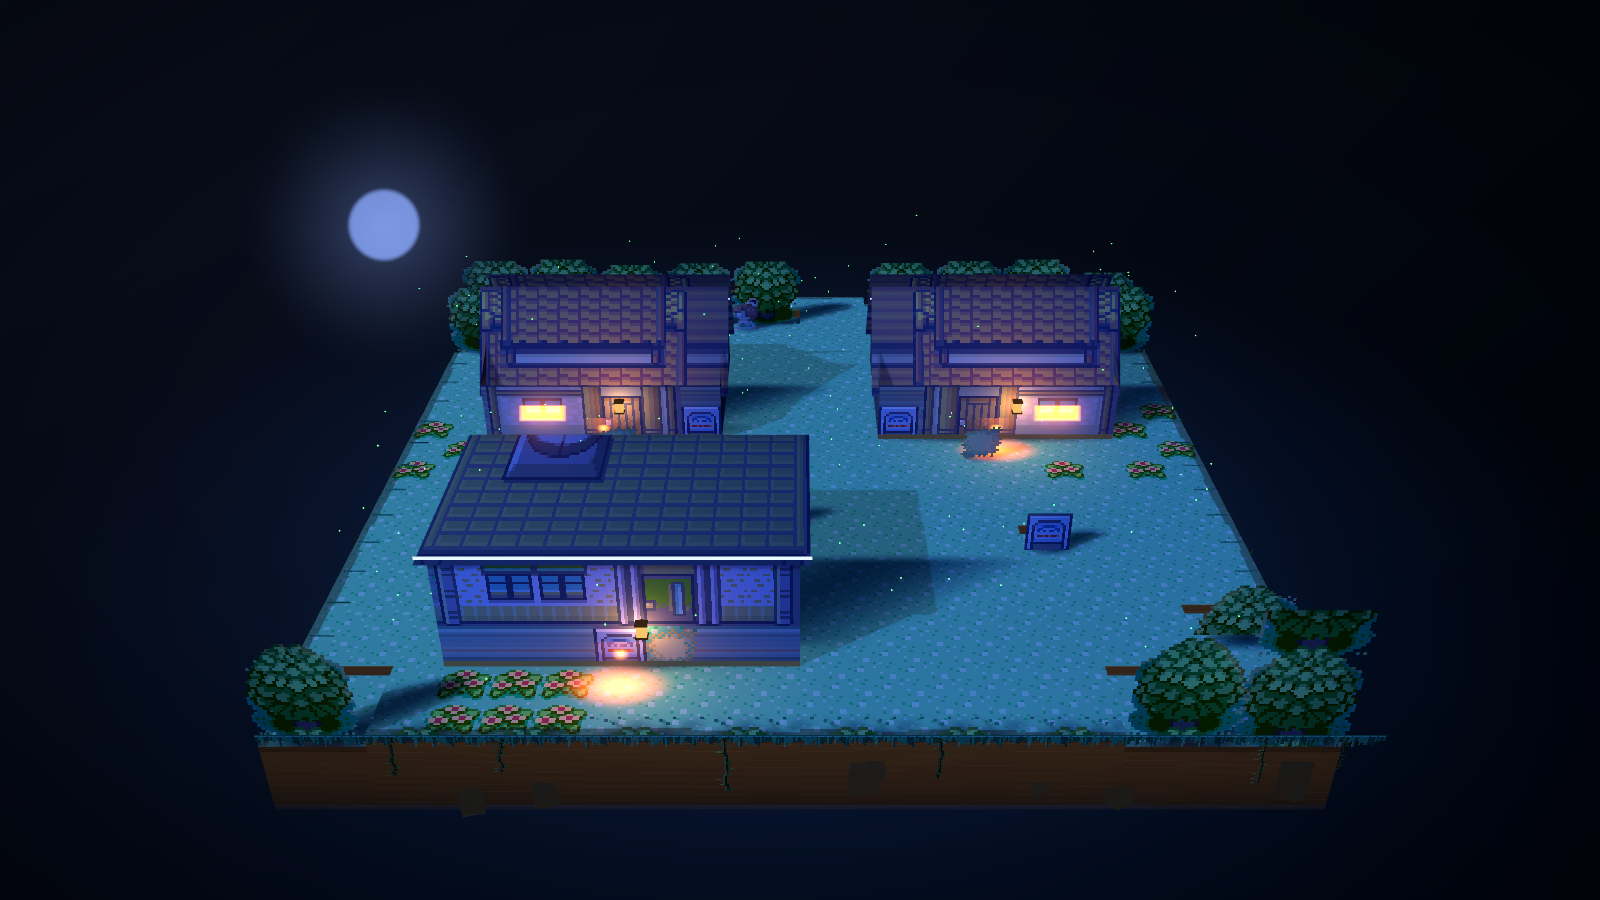
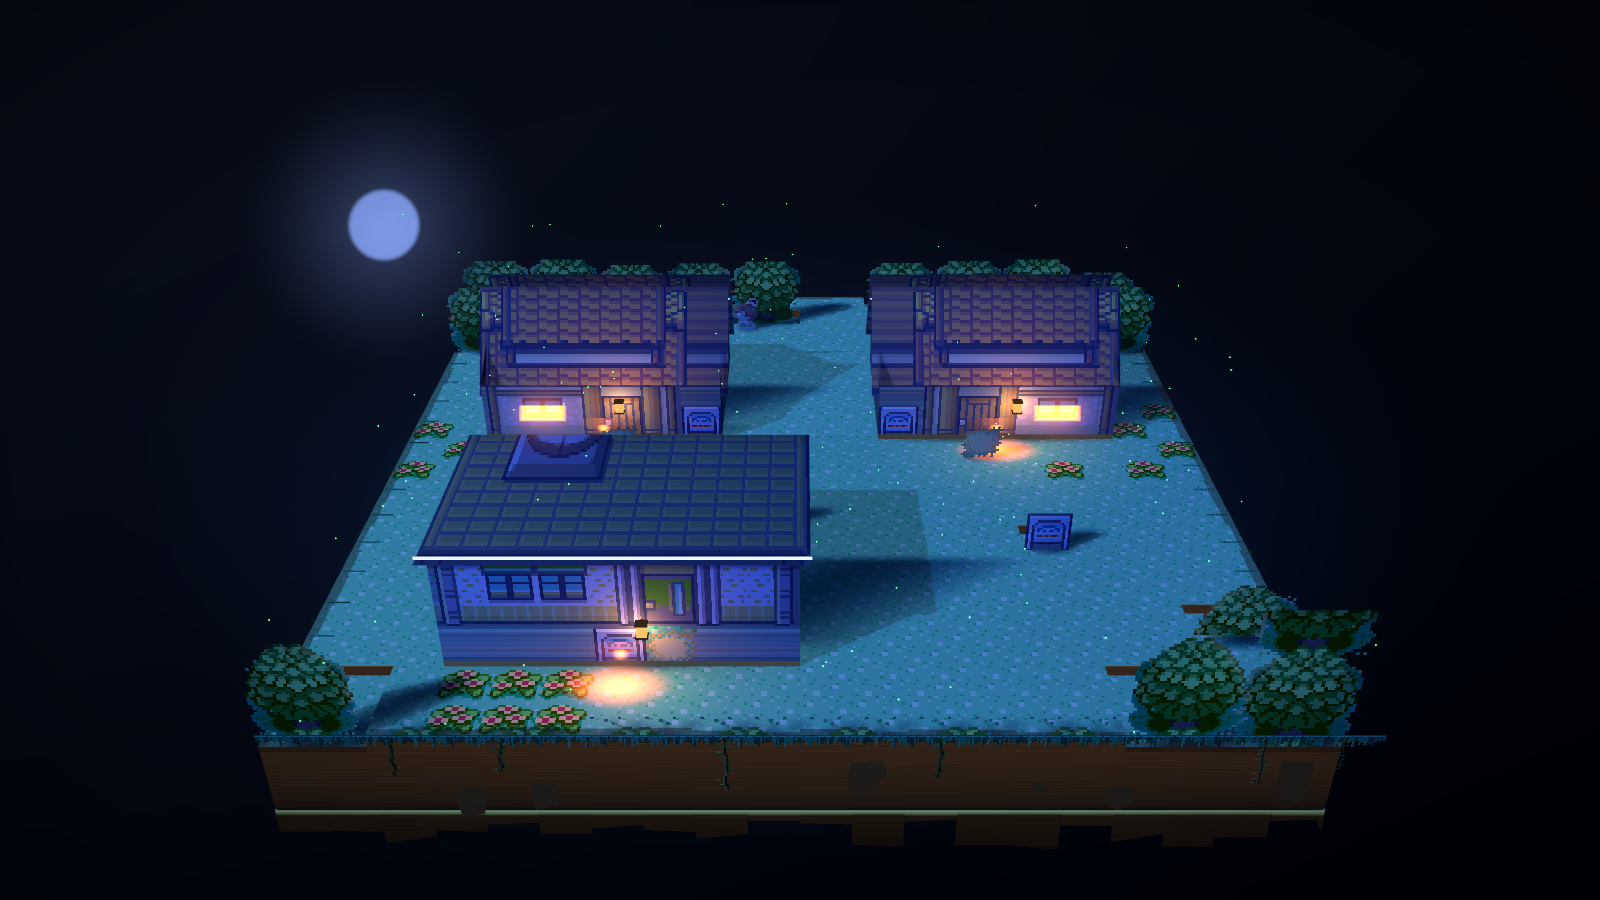
viewer: break the island's bottom silhouette
The wall mesh stopped at one flat depth, so from a low camera the slab read as
an extruded box. A jagged rock skirt below that line gives the underside a
torn silhouette, and the under-island glow is now a camera-facing halo rather
than a flat quad that showed up as a bright hairline edge-on. Own switch
(island.underside / --no-underside). Showcase renders regenerated.

Changed region(s): [[0.3125, 0.8711, 0.8125, 0.9644], [0.1875, 0.9022, 0.2812, 0.9333]]

diff --git a/docs/GEN3HD-RUNTIME.md b/docs/GEN3HD-RUNTIME.md
@@ -163,7 +163,7 @@ godot --path viewer3d -- --world="$PWD/out/gen3hd-world" \
               "sway": true, "letterbox": false },
   "shadows": { "cast": true, "contact": true, "baked": true, "strength": -1.0 },
   "island": { "cliff_detail": true, "fringe": true, "vines": true, "rocks": true,
-              "shards": true, "rim_lip": true, "glow": true },
+              "shards": true, "rim_lip": true, "underside": true, "glow": true },
   "lights": { "celestial": true, "door": true, "windows": true, "lanterns": true },
   "live": { "path": "", "follow": false }
 }
@@ -209,6 +209,7 @@ keeps working after a switch is added.
 | `--no-vignette` | drop the corner vignette |
 | `--no-fringe` / `--no-vines` / `--no-rocks` / `--no-shards` | island rim detail |
 | `--no-rim-lip` | drop the soil lip along the top edge |
+| `--no-underside` | drop the jagged rock skirt under the slab |
 | `--no-island-glow` | drop the cool pool under the slab |
 | `--no-celestial` | hide the sun/moon disc |
 | `--no-door-light` / `--no-window-lights` / `--no-lanterns` | dusk/night light sources |
